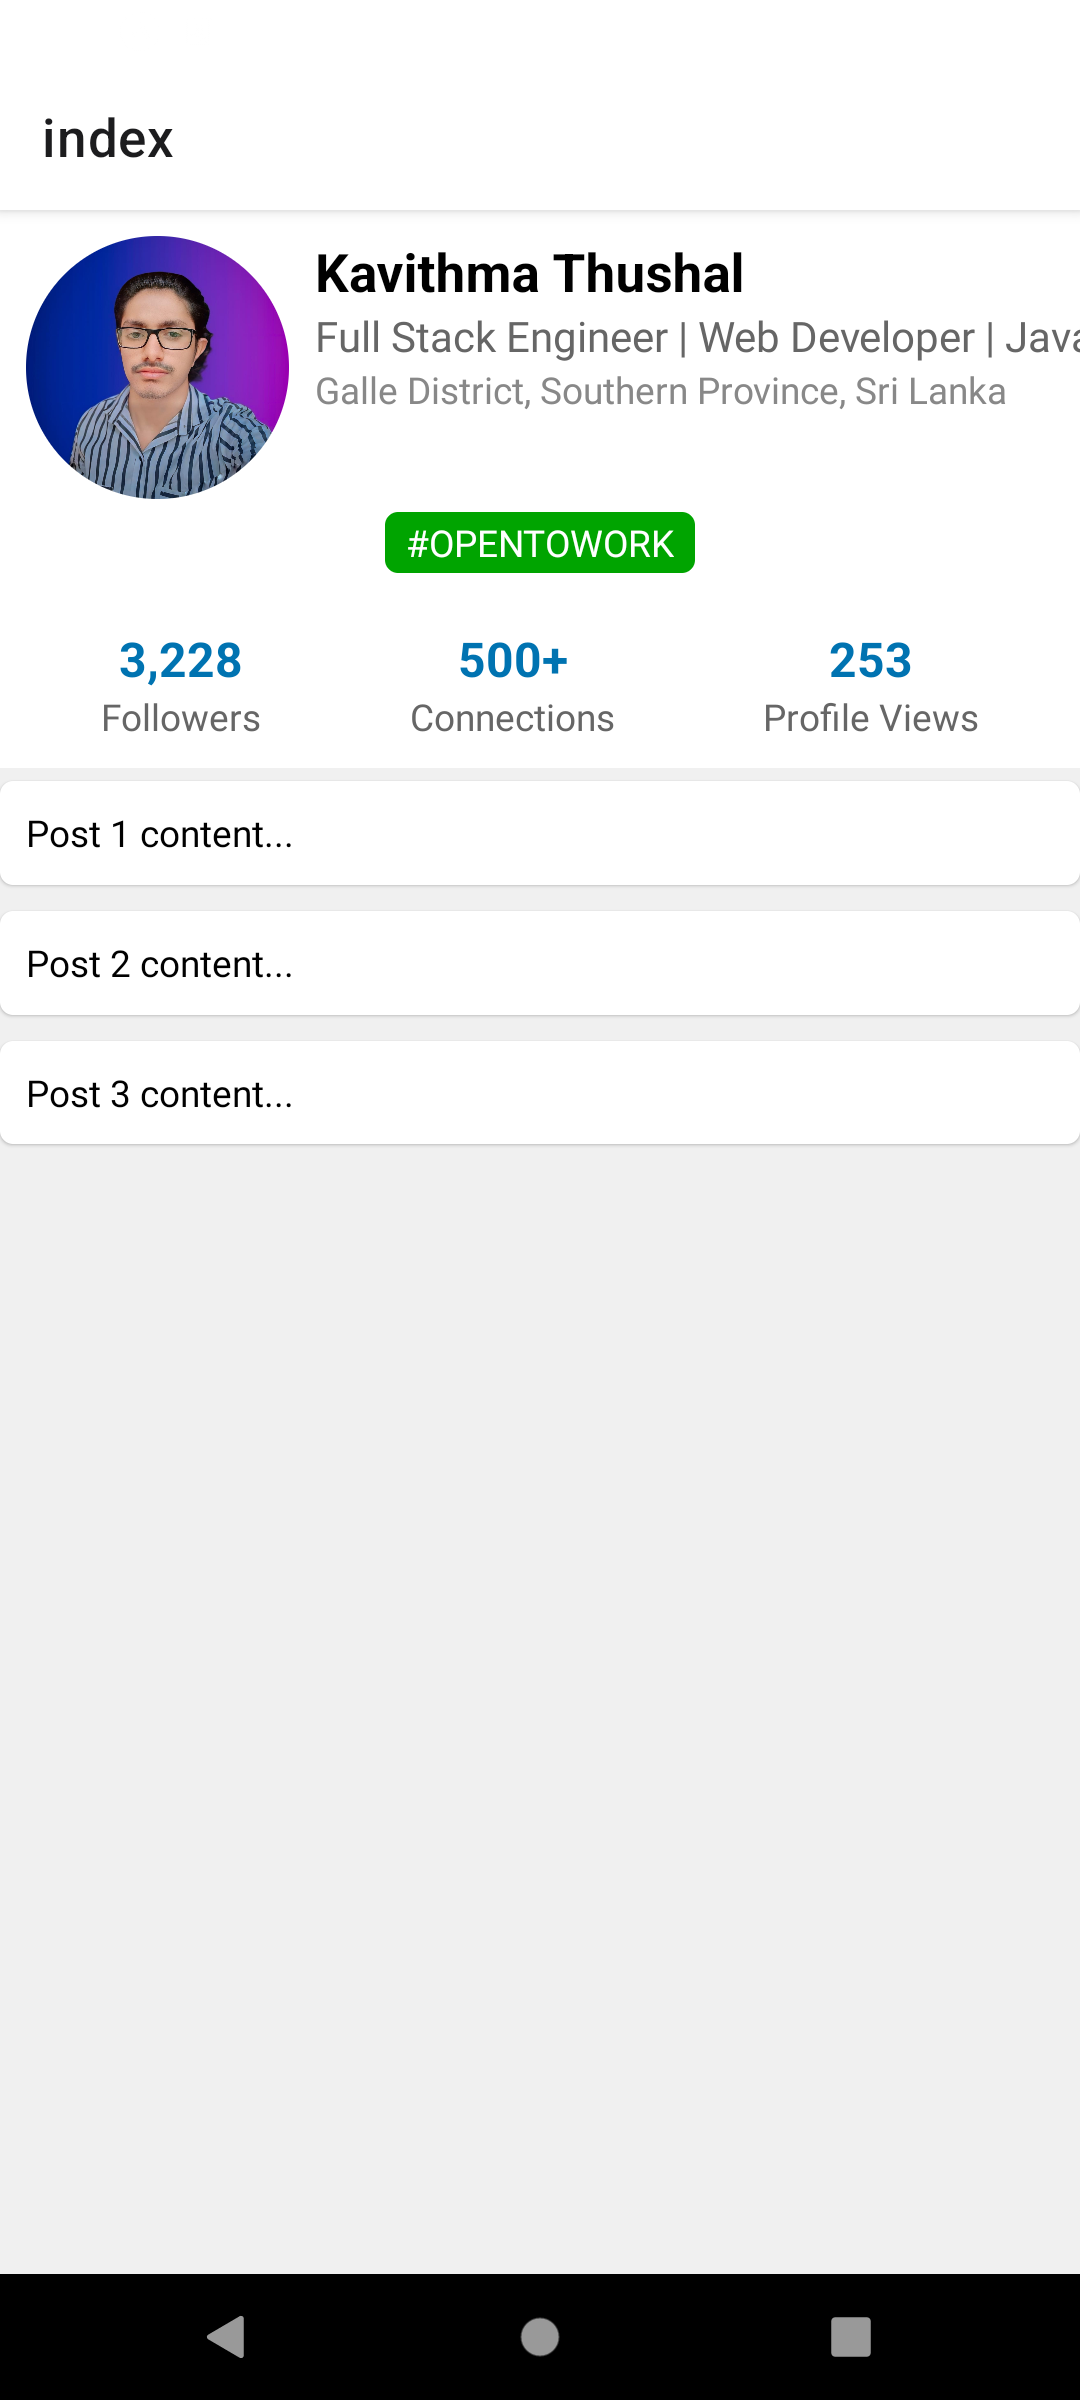
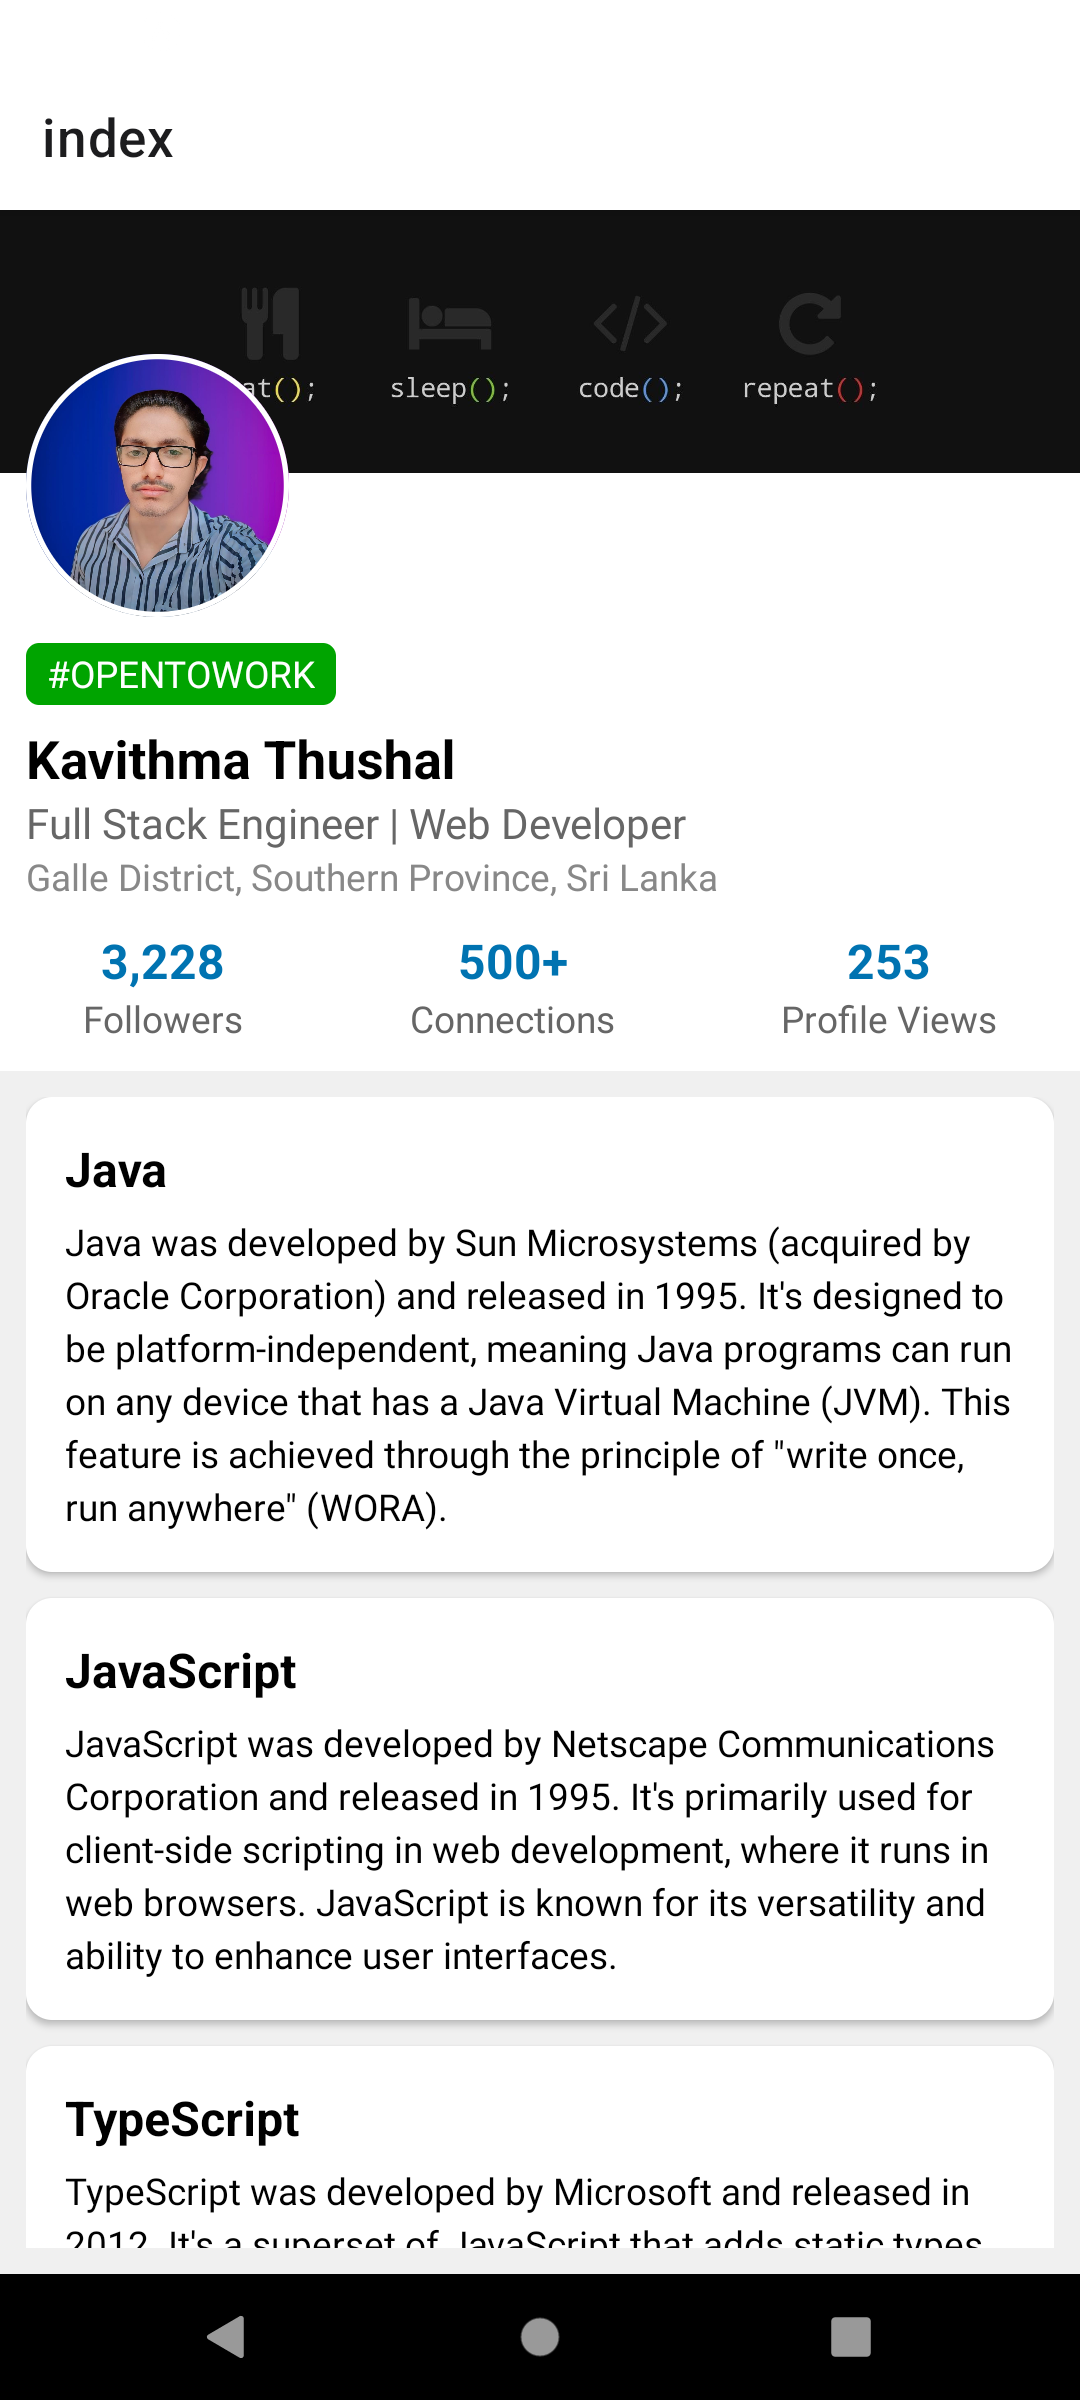
Post Content Refactored

diff --git a/components/MainFeed.tsx b/components/MainFeed.tsx
@@ -1,32 +1,50 @@
+import React from 'react';
 import { View, Text, StyleSheet, FlatList } from 'react-native';
 
 export default function MainFeed() {
 
   const posts = [
-    { id: '1', content: 'Post 1 Content' },
-    { id: '2', content: 'Post 2 Content' },
-    { id: '3', content: 'Post 3 Content' },
+    { id: '1', title: 'Java', description: 'Java was developed by Sun Microsystems (acquired by Oracle Corporation) and released in 1995. It\'s designed to be platform-independent, meaning Java programs can run on any device that has a Java Virtual Machine (JVM). This feature is achieved through the principle of "write once, run anywhere" (WORA).' },
+    { id: '2', title: 'JavaScript', description: 'JavaScript was developed by Netscape Communications Corporation and released in 1995. It\'s primarily used for client-side scripting in web development, where it runs in web browsers. JavaScript is known for its versatility and ability to enhance user interfaces.' },
+    { id: '3', title: 'TypeScript', description: 'TypeScript was developed by Microsoft and released in 2012. It\'s a superset of JavaScript that adds static types, allowing for better tooling, error detection, and scalability in large codebases. TypeScript compiles to plain JavaScript and can run on any JavaScript engine.' },
   ];
 
   const styles = StyleSheet.create({
-    post: {
+    container: {
+      flex: 1,
+      backgroundColor: '#f0f0f0',
       padding: 10,
-      marginVertical: 5,
+    },
+    post: {
+      padding: 15,
+      marginBottom: 10,
       backgroundColor: '#fff',
-      borderRadius: 5,
-      elevation: 1,
+      borderRadius: 10,
+      elevation: 2,
+    },
+    title: {
+      fontSize: 18,
+      fontWeight: 'bold',
+      marginBottom: 5,
+    },
+    description: {
+      fontSize: 14,
+      lineHeight: 20,
     },
   });
 
   return (
-    <FlatList
-      data={posts}
-      renderItem={({ item }) => (
-        <View style={styles.post}>
-          <Text>{item.content}</Text>
-        </View>
-      )}
-      keyExtractor={(item) => item.id}
-    />
+    <View style={styles.container}>
+      <FlatList
+        data={posts}
+        renderItem={({ item }) => (
+          <View style={styles.post}>
+            <Text style={styles.title}>{item.title}</Text>
+            <Text style={styles.description}>{item.description}</Text>
+          </View>
+        )}
+        keyExtractor={(item) => item.id}
+      />
+    </View>
   );
-};
+}
